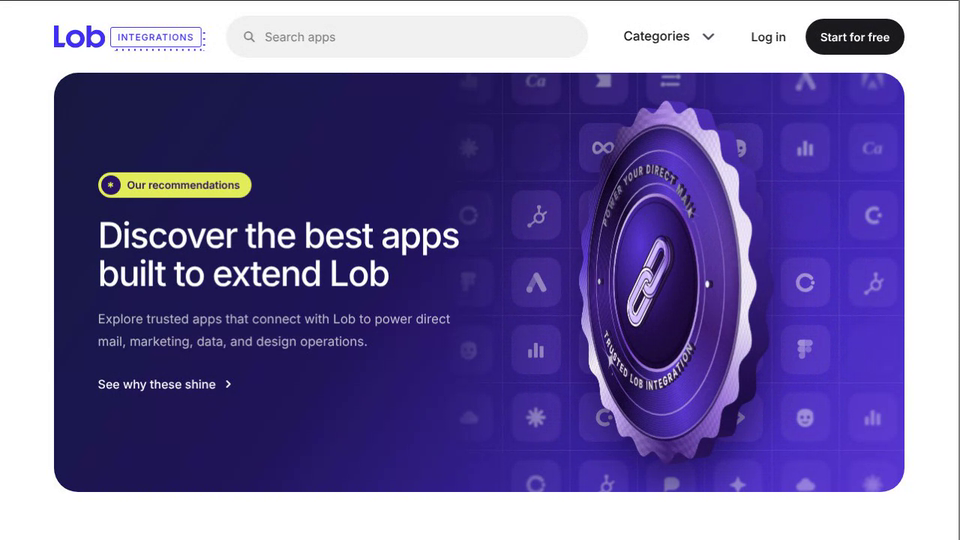
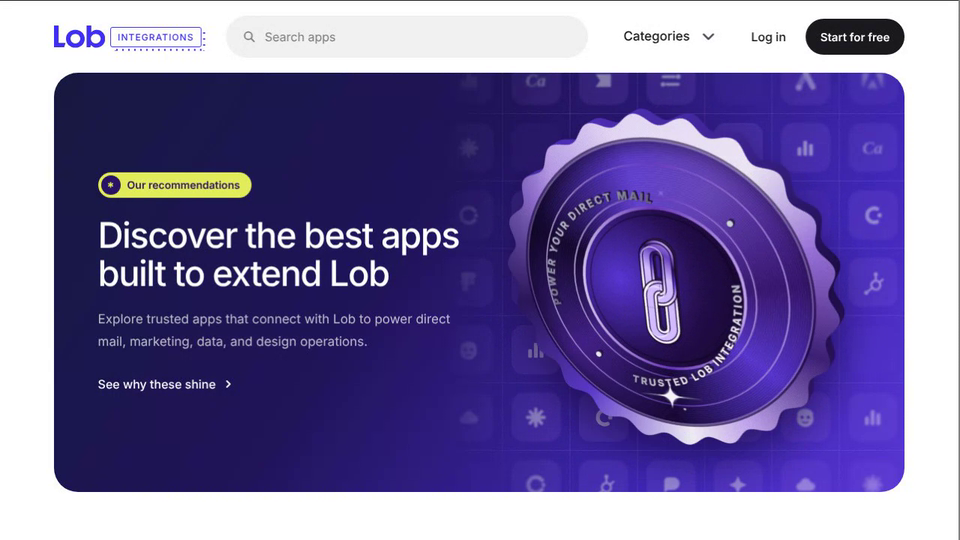
Lob Integrations Hero: badge spins on a 135 degree diagonal axis
Claude-Session: https://claude.ai/code/session_01AHeBdw5Dmhovddhvfinq8X

Changed region(s): [[0.5312, 0.1778, 0.9062, 0.9185]]

diff --git a/lob-integrations-hero/index.html b/lob-integrations-hero/index.html
@@ -284,7 +284,7 @@ function frame(now){
   if(hover){wx=tx;wy=ty}else if(calm){wx=0;wy=0}else{wx=Math.sin(t*Math.PI/3)*.5;wy=Math.cos(t*Math.PI/3)*.3}
   px+=(wx-px)*.07; py+=(wy-py)*.07;
   var spin=calm?0:(t%6)*60;   /* a full turn every 6 s, so the clip loops seamlessly */
-  badge.style.transform='rotateX('+(-py*14).toFixed(2)+'deg) rotateY('+(spin+px*16).toFixed(2)+'deg)';
+  badge.style.transform='rotateZ(-45deg) rotateX('+(-py*14).toFixed(2)+'deg) rotateY('+(spin+px*16).toFixed(2)+'deg)';
   var sr=spin*Math.PI/180;
   badge.style.setProperty('--a',(30+Math.sin(sr)*60+px*50).toFixed(1)+'deg');
   badge.style.setProperty('--gx',(50+Math.sin(sr)*40+px*20).toFixed(1)+'%'); badge.style.setProperty('--gy',(40+py*30).toFixed(1)+'%');
